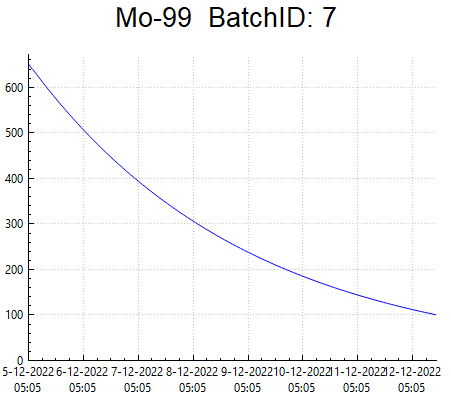
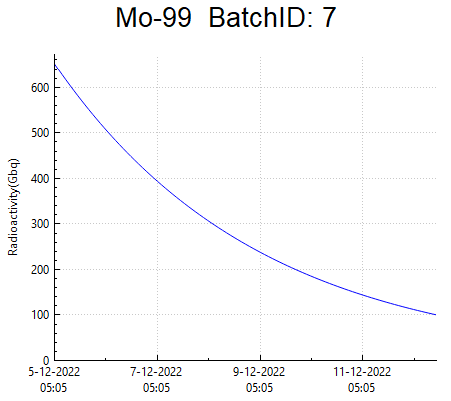
ja aant werk nu

diff --git a/QtKoeWare/Classes/GraphUi.cpp b/QtKoeWare/Classes/GraphUi.cpp
@@ -89,23 +89,23 @@ void GraphUI::setMolybdenumGraph(int moBatch, bool simGraph, bool latestBatch, b
 	// Set date on x-axis
 	QSharedPointer<QCPAxisTickerDateTime> dateTicker(new QCPAxisTickerDateTime);
 	dateTicker->setDateTimeFormat("d-MM-yyyy\nHH:mm");
-	dateTicker->setTickCount(7);
 	dateTicker->setTickOrigin(starttime);
 	graphui.plot->xAxis->setTicker(dateTicker);
 	graphui.plot->xAxis->setRange(starttime, endtime);
 		
 	//Title
 	QString titleText = QString("Mo-99  BatchID: ") + QString::number(moBatch);
-	QString printTitle = QString("mo99_batchid_") + QString::number(moBatch);
 	setGraphTitle(titleText);
 
 	// Set y-axix
 	graphui.plot->yAxis->setRange(0, startactivity + 20);
+	graphui.plot->yAxis->setLabel("Radioactivity(Gbq)");
 
 	// plot graph
 	graphui.plot->replot();
 
 	if (print) {
+		QString printTitle = QString("mo99_batchid_") + QString::number(moBatch);
 		printGraphImage(printTitle);
 	}
 		
@@ -116,7 +116,7 @@ void GraphUI::printGraphImage(QString title) {
 	graphui.plot->savePng(title+QString(".png"));
 }
 
-void GraphUI::setTechnetiumGraph(int batchId, bool simGraph) {
+void GraphUI::setTechnetiumGraph(int batchId, bool simGraph, bool print) {
 	int moBatchId;
 	QList<QVariant> patientsTimeList;
 	QList<QVariant> patientsDoseList;
@@ -226,12 +226,21 @@ void GraphUI::setTechnetiumGraph(int batchId, bool simGraph) {
 
 	// Set y-axix
 	graphui.plot->yAxis->setRange(0, rangeY);
+	graphui.plot->yAxis->setLabel("Radioactivity(Mbq)");
 	
 
 
 	//Graph Title
 	QString titleText = QString("Te-99  BatchID: ") + QString::number(batchId);
 	setGraphTitle(titleText);
+
+
+	//Make graph image
+	if (print) {
+		QString printTitle = QString("te99_batchid_") + QString::number(batchId);
+		printGraphImage(printTitle);
+	}
+	
 
 	// plot graph
 	graphui.plot->replot();

diff --git a/QtKoeWare/Headers/GraphUi.h b/QtKoeWare/Headers/GraphUi.h
@@ -19,7 +19,7 @@ public:
 	void selectMoBatch();
 	void selectTeBatch();
 	void setMolybdenumGraph(int moBatchId = 0, bool simGraph = false, bool latestBatch = false, bool print = false);
-	void setTechnetiumGraph(int teBatch = 0, bool simGraph = false);
+	void setTechnetiumGraph(int teBatch = 0, bool simGraph = false, bool print = false);
 	void setGraphTitle(QString titleText);
 	void printGraphImage(QString title);
 	QDateTime getTimeNow(bool simGraph = false);
